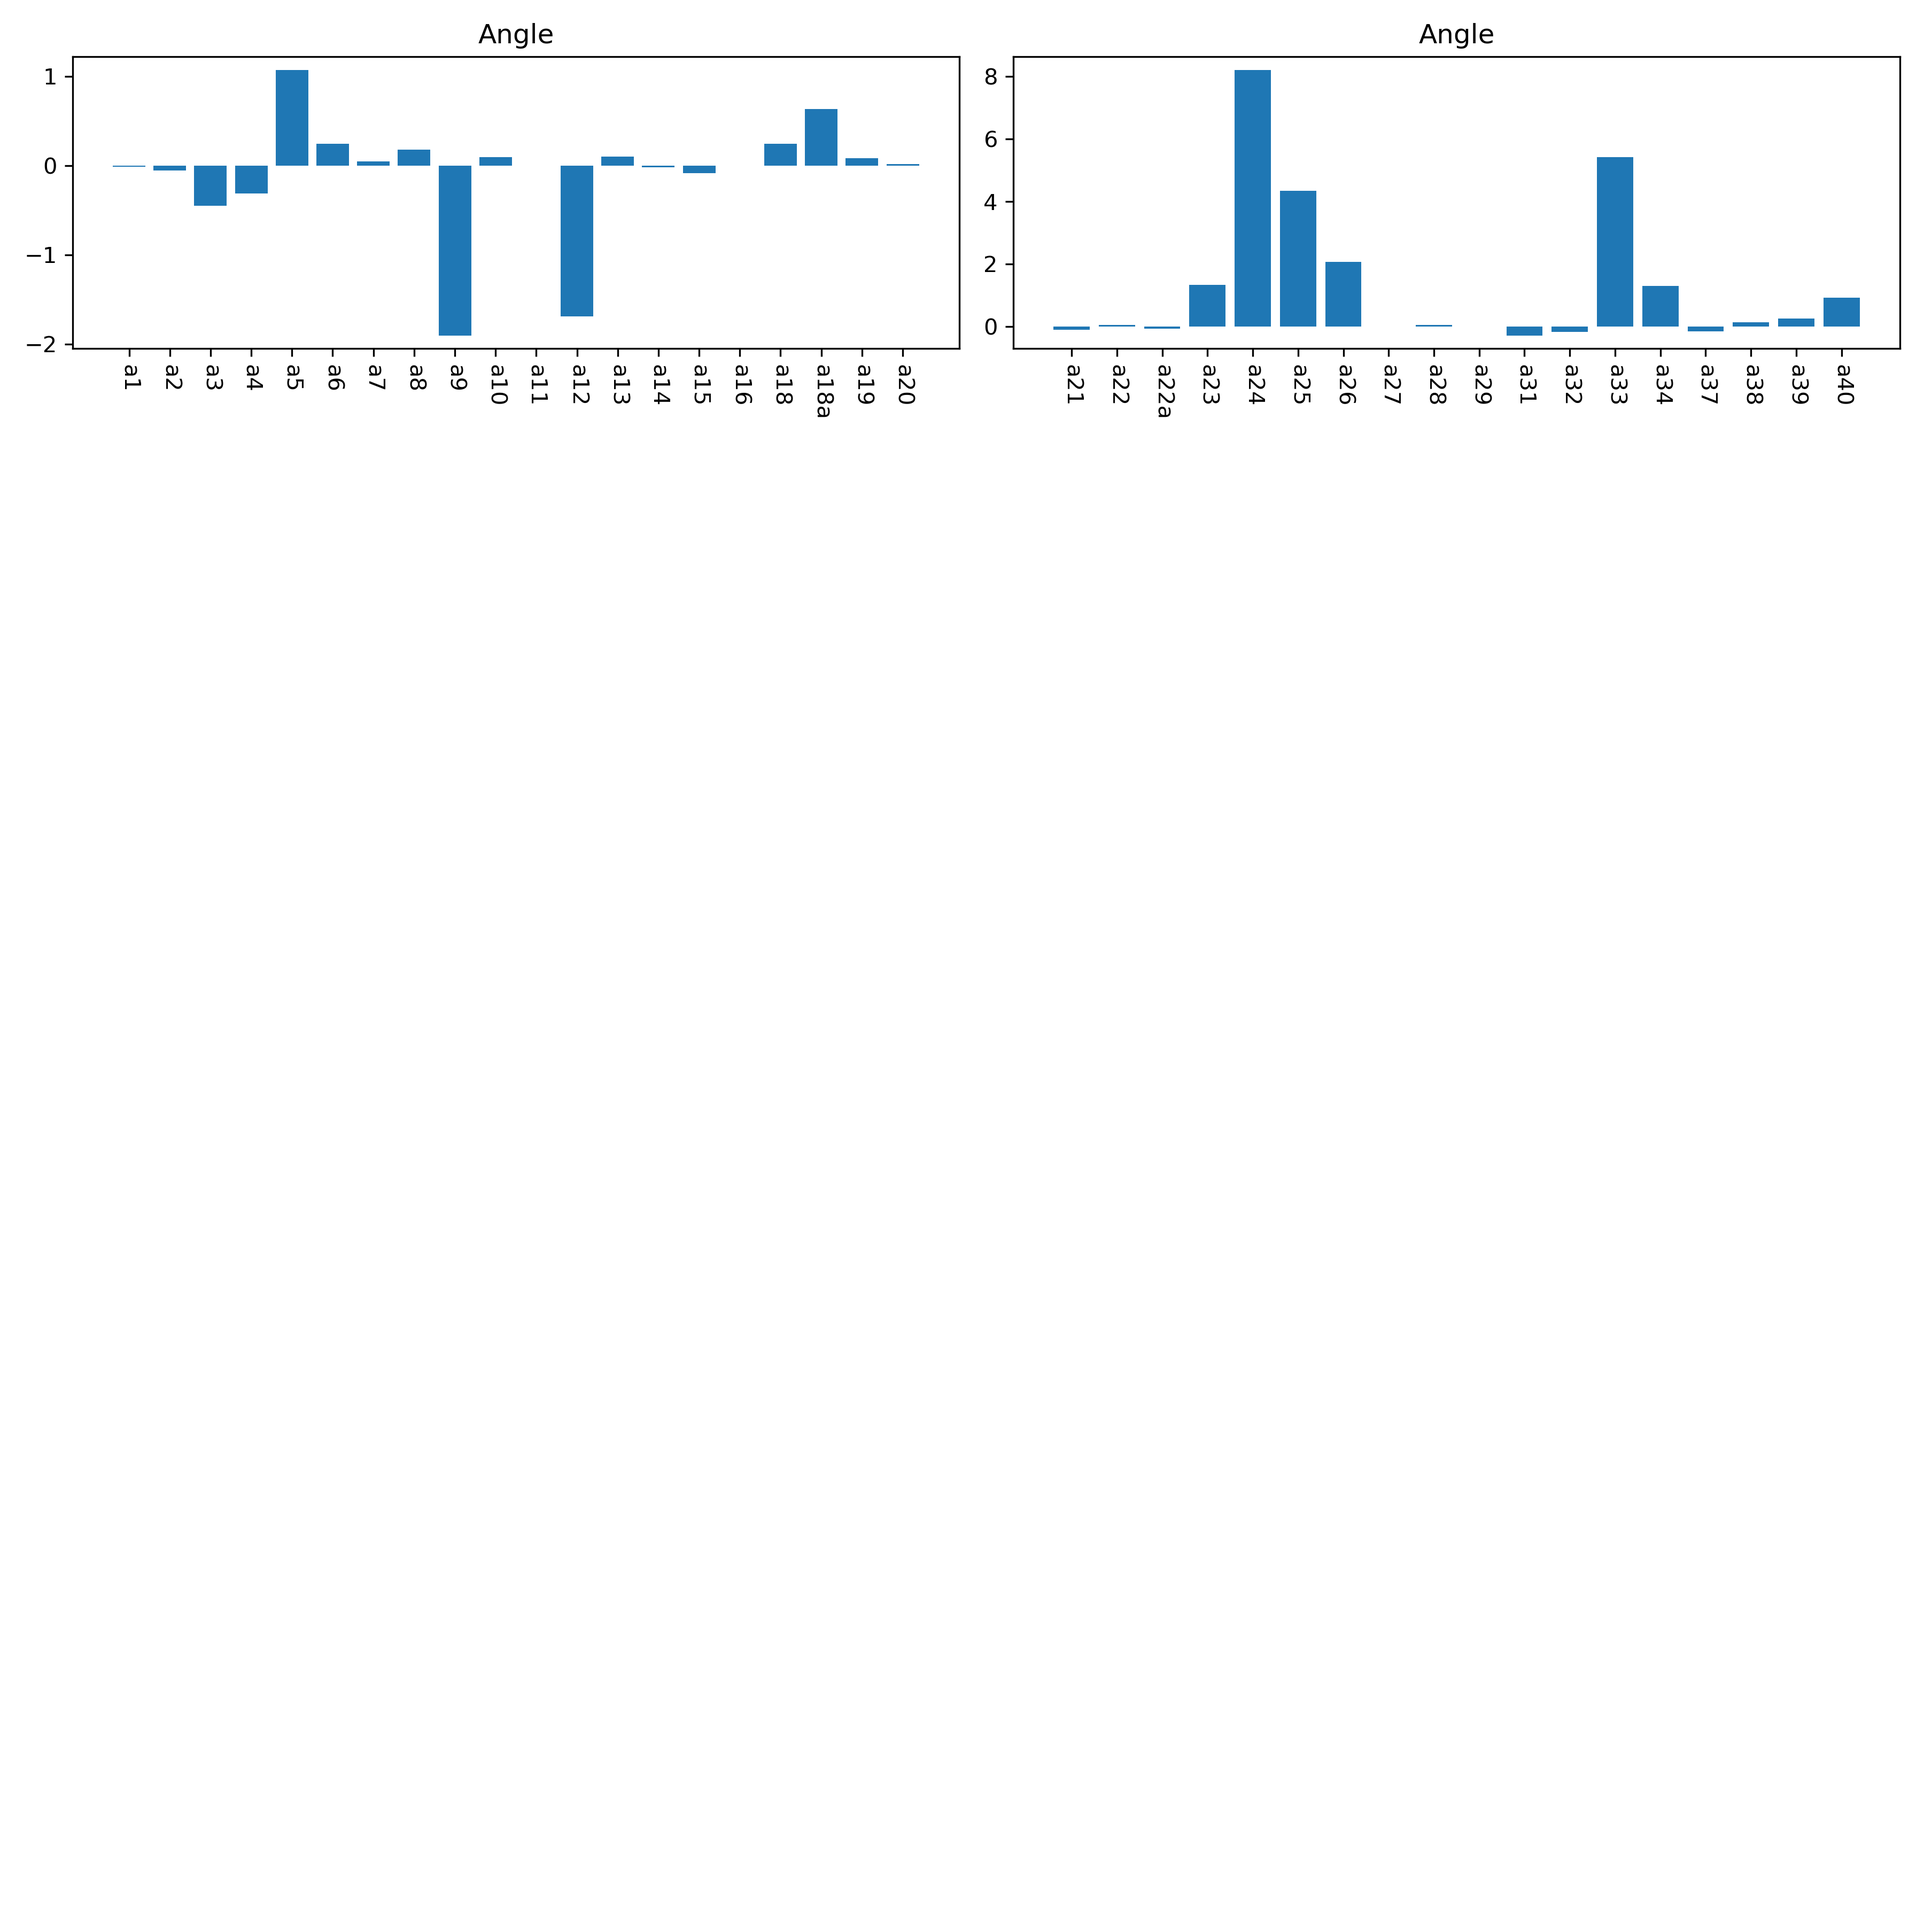
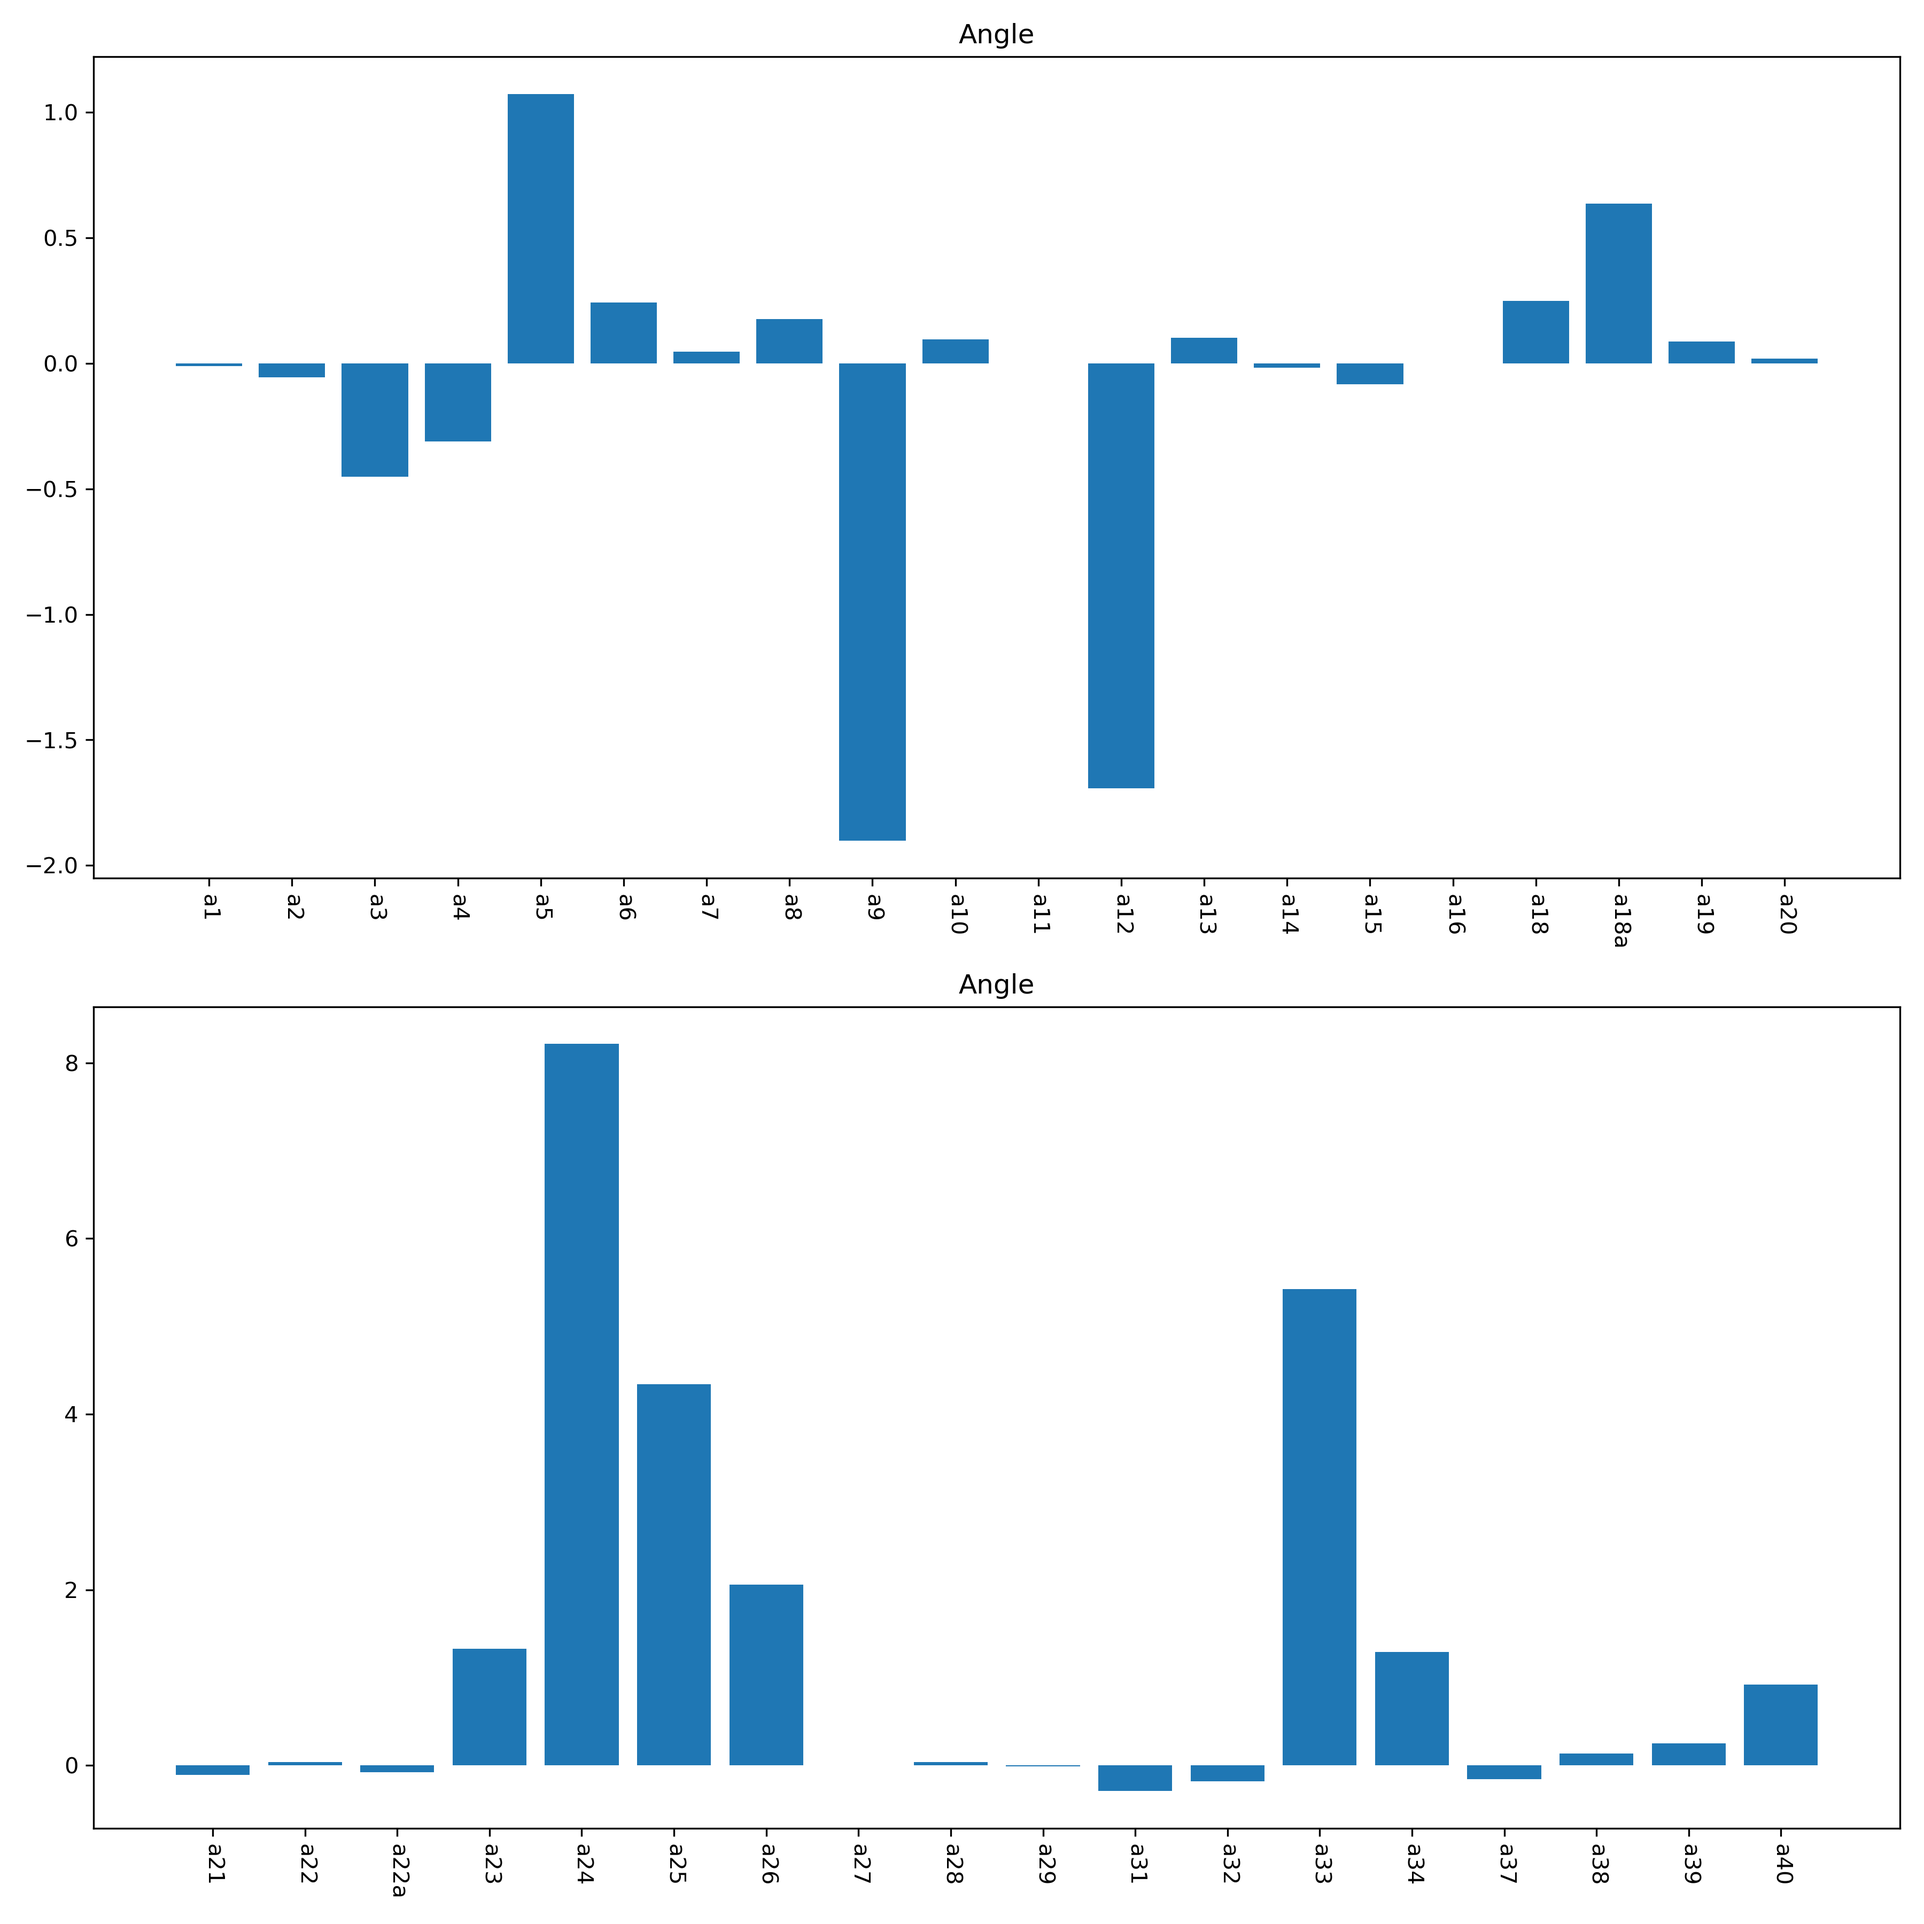
better formatting, make click command

diff --git a/change.py b/change.py
@@ -1,7 +1,11 @@
+#!/usr/bin/env python
+
 # determine changes between starting and ending parameters for a force field
 
+import math
 from collections import defaultdict
 
+import click
 import matplotlib.pyplot as plt
 from openff.toolkit import ForceField
 
@@ -17,62 +21,89 @@ def plot(lens, title, filename):
     ids, lens = zip(*lens)
     chunk = 20
     ll = len(lens)
+    match math.ceil(ll / chunk):
+        case 0 | 1:
+            rows, cols = 1, 1
+        case 2:
+            rows, cols = 2, 1
+        case 3 | 4:
+            rows, cols = 2, 2
+        case 5 | 6:
+            rows, cols = 3, 2
+        case 7 | 8:
+            rows, cols = 4, 2
+        case 9 | 10:
+            rows, cols = 5, 2
+        case e:
+            raise ValueError(e)
+
     for i in range(0, ll, chunk):
         end = min(i + chunk, ll)
-        ax1 = plt.subplot(5, 2, i // chunk + 1)
+        ax1 = plt.subplot(rows, cols, i // chunk + 1)
         inner(ax1, ids[i:end], lens[i:end], title)
     fig.tight_layout()
     plt.savefig(filename, dpi=300)
     plt.close()
 
 
-start = ForceField(
-    "../valence-fitting/04_fit-forcefield/fb-fit/forcefield/"
-    "force-field.offxml",
-    allow_cosmetic_attributes=True,
-)
-end = ForceField("forcefields/tm.offxml", allow_cosmetic_attributes=True)
+class Diff:
+    def __init__(self, start, end):
+        def load(ff):
+            return ForceField(ff, allow_cosmetic_attributes=True)
 
+        self.start = load(start)
+        self.end = load(end)
 
-def check(param, attrs):
-    hs = start.get_parameter_handler(param)
-    he = end.get_parameter_handler(param)
+    def check(self, param, attrs):
+        hs = self.start.get_parameter_handler(param)
+        he = self.end.get_parameter_handler(param)
 
-    ret = defaultdict(list)
-    for s in hs:
-        if "parameterize" not in s._cosmetic_attribs:
-            continue
-        e = he.get_parameter(dict(id=s.id))[0]
-        for attr in attrs:
-            f = getattr(e, attr, None)
-            i = getattr(s, attr, None)
-            if f is None or i is None:
+        ret = defaultdict(list)
+        for s in hs:
+            if "parameterize" not in s._cosmetic_attribs:
                 continue
-            assert f.units == i.units
-            ret[attr].append((s.id, (f - i).magnitude))
+            e = he.get_parameter(dict(id=s.id))[0]
+            for attr in attrs:
+                f = getattr(e, attr, None)
+                i = getattr(s, attr, None)
+                if f is None or i is None:
+                    continue
+                assert f.units == i.units
+                ret[attr].append((s.id, (f - i).magnitude))
 
-    return ret
+        return ret
+
+    def check_bonds(self):
+        vals = self.check("Bonds", ["k", "length"])
+        plot(vals["k"], "Bond k", "change/bond-k.png")
+        plot(vals["length"], "Bond Len", "change/bond-len.png")
+
+    def check_angles(self):
+        vals = self.check("Angles", ["k", "angle"])
+        plot(vals["k"], "Angle k", "change/angle-k.png")
+        plot(vals["angle"], "Angle", "change/angle.png")
+
+    def check_torsions(self):
+        vals = self.check(
+            "ProperTorsions", ["k1", "k2", "k3", "k4", "k5", "k6"]
+        )
+        for i in range(1, 7):
+            plot(vals[f"k{i}"], f"Torsion k{i}", f"change/torsion-k{i}.png")
 
 
-def check_bonds():
-    vals = check("Bonds", ["k", "length"])
-    plot(vals["k"], "Bond k", "change/bond-k.png")
-    plot(vals["length"], "Bond Len", "change/bond-len.png")
-
-
-def check_angles():
-    vals = check("Angles", ["k", "angle"])
-    plot(vals["k"], "Angle k", "change/angle-k.png")
-    plot(vals["angle"], "Angle", "change/angle.png")
-
-
-def check_torsions():
-    vals = check("ProperTorsions", ["k1", "k2", "k3", "k4", "k5", "k6"])
-    for i in range(1, 7):
-        plot(vals[f"k{i}"], f"Torsion k{i}", f"change/torsion-k{i}.png")
+# example usage:
+# ./change.py \
+# -s ../valence-fitting/04_fit-forcefield/fb-fit/forcefield/force-field.offxml\
+# -e forcefields/tm.offxml
+@click.command()
+@click.option("--start", "-s", help="name of the initial force field")
+@click.option("--end", "-e", help="name of the final force field")
+def main(start, end):
+    diff = Diff(start, end)
+    diff.check_bonds()
+    diff.check_angles()
+    diff.check_torsions()
 
 
 if __name__ == "__main__":
-    check_bonds()
-    check_angles()
-    check_torsions()
+    main()
